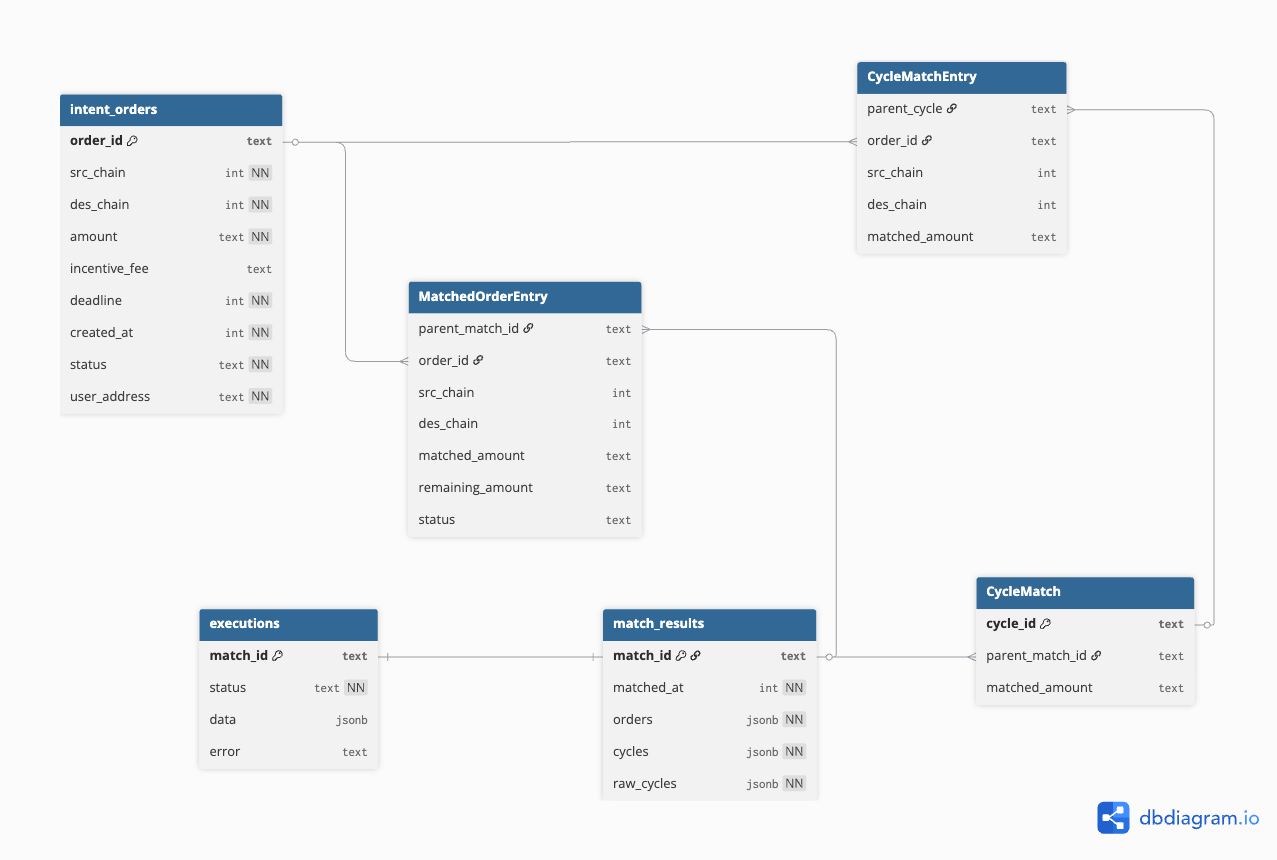
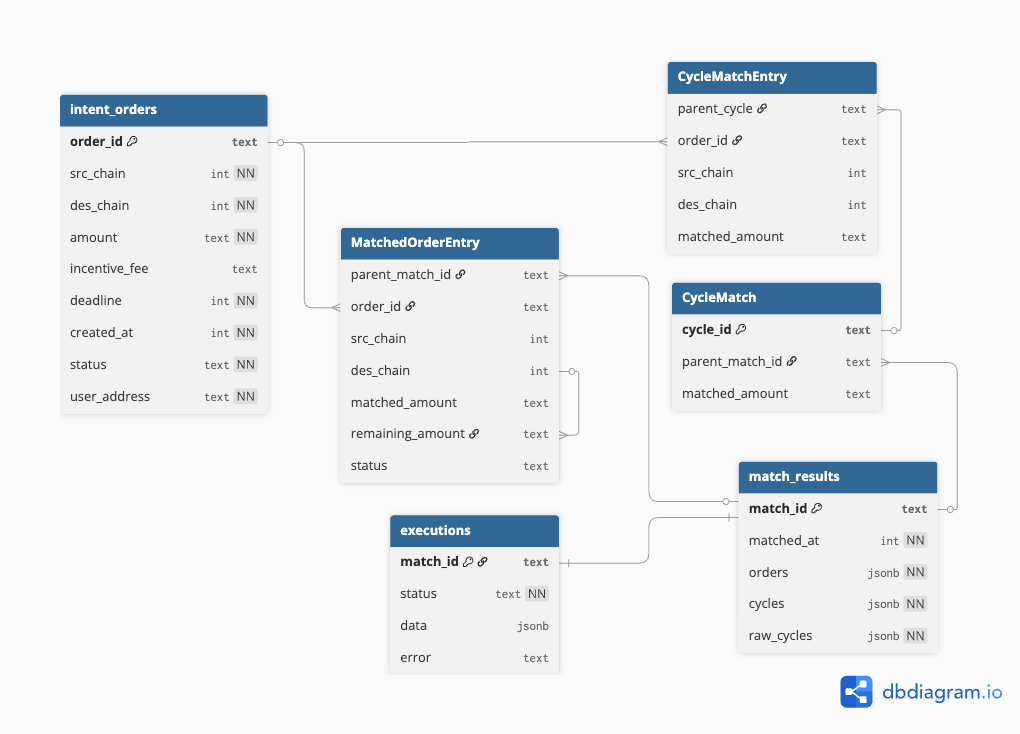
resize figures

diff --git a/docs/thesis/chapters/c3/c3_3_3_3_orderbook.tex b/docs/thesis/chapters/c3/c3_3_3_3_orderbook.tex
@@ -33,7 +33,7 @@ và \texttt{executions}.
 
 \begin{figure}[H]
     \centering
-    \includegraphics[width=0.85\linewidth]{figures/c3/database}
+    \includegraphics[width=\linewidth]{figures/c3/database}
     \caption{Lược đồ cơ sở dữ liệu của hệ thống.}
     \label{fig:database-schema}
 \end{figure}

diff --git a/docs/thesis/chapters/c3/c3_chapter.tex b/docs/thesis/chapters/c3/c3_chapter.tex
@@ -163,7 +163,7 @@ trong khi offchain phụ trách xử lý order và matching với hiệu năng c
 
 \begin{figure}[H]
   \begin{center}
-  \includegraphics[width=\linewidth]{figures/c3/architecture}
+  \includegraphics[width=\linewidth, height=0.85\textheight, keepaspectratio]{figures/c3/architecture}
   \end{center}
   \caption{Kiến trúc tổng quan của hệ thống.}
   \label{fig:architecture}